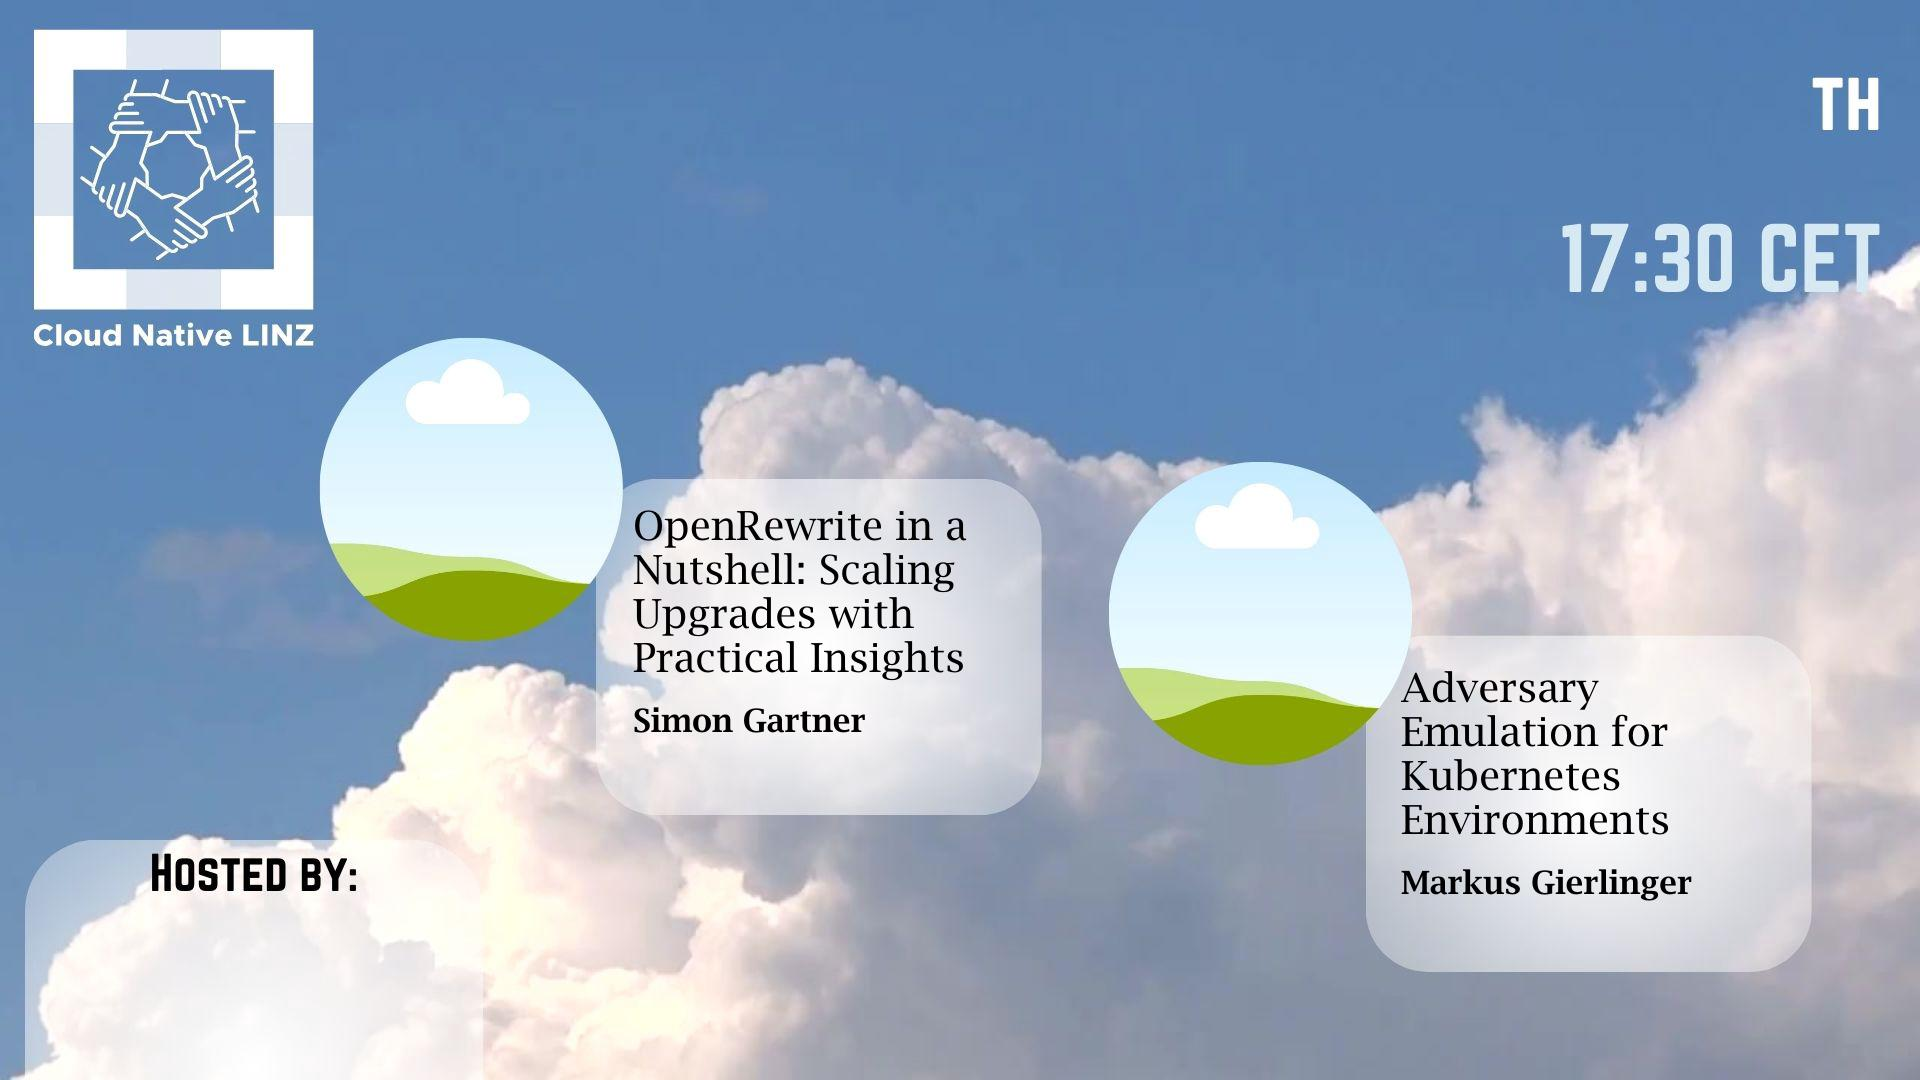
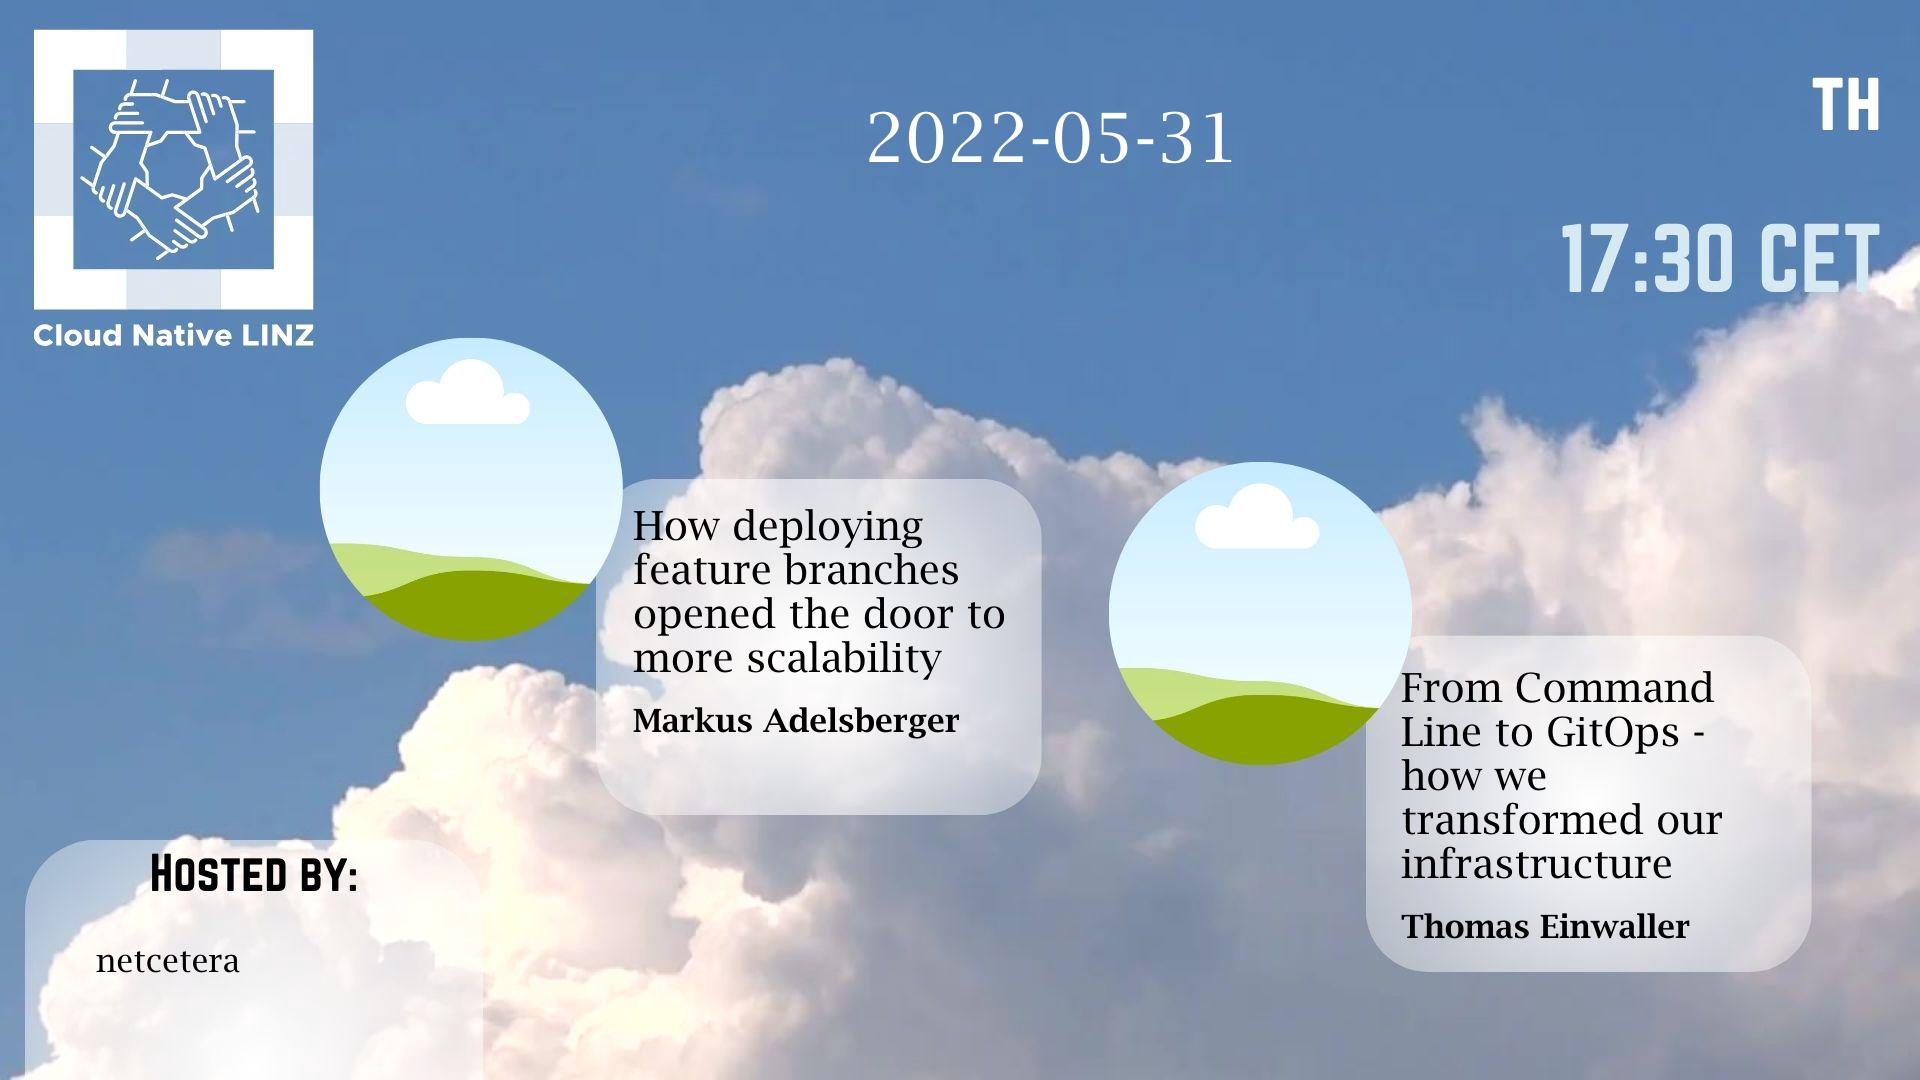
working version

diff --git a/cmd/main.go b/cmd/main.go
@@ -17,7 +17,25 @@ import (
 	"golang.org/x/image/font"
 	"golang.org/x/image/font/basicfont"
 	"golang.org/x/image/font/opentype"
+
+	"gopkg.in/yaml.v3"
 )
+
+// Structs for parsing events.yml
+type Talk struct {
+	Title   string `yaml:"title"`
+	Speaker string `yaml:"speaker"`
+}
+
+type Event struct {
+	ID    int    `yaml:"id"`
+	Date  string `yaml:"date"`
+	Title string `yaml:"title"`
+	Talks []Talk `yaml:"talks"`
+	Host  string `yaml:"host"`
+}
+
+type EventsYAML []Event
 
 func main() {
 	// Define command-line arguments
@@ -25,6 +43,7 @@ func main() {
 	overlayPaths := flag.String("overlays", "", "Comma-separated paths to overlay images")
 	outputPath := flag.String("output", "output.jpg", "Path to save the final image")
 	templatePath := flag.String("template", "", "Path to the JSON template file") // Template file
+	eventID := flag.String("id", "", "ID of the event in events.yml to use for speaker/talk text")
 
 	flag.Parse()
 
@@ -106,6 +125,28 @@ func main() {
 				BoxWidth int    `json:"boxWidth"`
 				Text     string `json:"text"`
 			} `json:"speaker2name"`
+			Sponsor struct {
+				Font     string  `json:"font"`
+				FontSize float64 `json:"fontSize"`
+				Color    string  `json:"color"`
+				Position struct {
+					X int `json:"x"`
+					Y int `json:"y"`
+				} `json:"position"`
+				BoxWidth int    `json:"boxWidth"`
+				Text     string `json:"text"`
+			} `json:"sponsor"`
+			Date struct {
+				Font     string  `json:"font"`
+				FontSize float64 `json:"fontSize"`
+				Color    string  `json:"color"`
+				Position struct {
+					X int `json:"x"`
+					Y int `json:"y"`
+				} `json:"position"`
+				BoxWidth int    `json:"boxWidth"`
+				Text     string `json:"text"`
+			} `json:"date"`
 		}
 		if err := json.Unmarshal(templateData, &template); err != nil {
 			log.Fatalf("Error parsing template JSON: %v", err)
@@ -154,7 +195,51 @@ func main() {
 	// Create text renderer
 	textRenderer := renderer.TextRenderer{}
 
+	// If --id is provided, parse events.yml and extract talk info
+	var speaker1Title, speaker1Name, speaker2Title, speaker2Name, sponsor, date string
+	useEventTalks := false
+	if *eventID != "" {
+		eventsData, err := os.ReadFile("_data/events.yml")
+		if err != nil {
+			log.Fatalf("Error reading events.yml: %v", err)
+		}
+		var events EventsYAML
+		err = yaml.Unmarshal(eventsData, &events)
+		if err != nil {
+			log.Fatalf("Error parsing events.yml: %v", err)
+		}
+		found := false
+		for _, event := range events {
+			if fmt.Sprintf("%d", event.ID) == *eventID {
+				if len(event.Talks) > 0 {
+					speaker1Title = event.Talks[0].Title
+					speaker1Name = event.Talks[0].Speaker
+				}
+				if len(event.Talks) > 1 {
+					speaker2Title = event.Talks[1].Title
+					speaker2Name = event.Talks[1].Speaker
+				}
+				if event.Host != "" {
+					sponsor = event.Host
+				}
+				if event.Date != "" {
+					date = event.Date
+				}
+				found = true
+				useEventTalks = true
+				break
+			}
+		}
+		if !found {
+			log.Fatalf("Event with ID %s not found in events.yml", *eventID)
+		}
+	}
+
+	// Remove unused variable warning for useEventTalks
+	_ = useEventTalks
+
 	// --- Render speaker text in correct box positions and avoid overlaying ---
+	// Use extracted talk info if available, otherwise fallback to template.json text
 	if *templatePath != "" {
 		templateData, err := os.ReadFile(*templatePath)
 		if err != nil {
@@ -205,23 +290,69 @@ func main() {
 				}
 				BoxWidth int
 			}
+			Sponsor struct {
+				Text     string
+				Font     string
+				FontSize float64
+				Color    string
+				Position struct {
+					X int
+					Y int
+				}
+				BoxWidth int
+			}
+			Date struct {
+				Text     string
+				Font     string
+				FontSize float64
+				Color    string
+				Position struct {
+					X int
+					Y int
+				}
+				BoxWidth int
+			}
 		}
 		if err := json.Unmarshal(templateData, &template); err != nil {
 			log.Fatalf("Error parsing template JSON: %v", err)
 		}
 
+		// Override text fields if event talks are available
+		if *eventID != "" {
+			if speaker1Title != "" {
+				template.Speaker1title.Text = speaker1Title
+			}
+			if speaker1Name != "" {
+				template.Speaker1name.Text = speaker1Name
+			}
+			if speaker2Title != "" {
+				template.Speaker2title.Text = speaker2Title
+			}
+			if speaker2Name != "" {
+				template.Speaker2name.Text = speaker2Name
+			}
+			if sponsor != "" {
+				template.Sponsor.Text = sponsor
+			}
+			if date != "" {
+				template.Date.Text = date
+			}
+		}
+
 		imgWidth := rgbaFinalImage.Bounds().Dx()
 		imgHeight := rgbaFinalImage.Bounds().Dy()
 
+		// TODO get the positions from the template.json file
+
 		// Speaker 1 box (left)
-		speaker1BoxX := int(0.33 * float64(imgWidth))    // ~30% from left
+		speaker1BoxX := int(0.33 * float64(imgWidth))    // ~33% from left
 		speaker1BoxY := int(0.50 * float64(imgHeight))   // ~50% from top
-		speakerBoxWidth := int(0.20 * float64(imgWidth)) // ~25% width
+		speakerBoxWidth := int(0.20 * float64(imgWidth)) // ~20% width
 		lineSpacing := 1.1
 
-		// Speaker 2 box (right)
-		speaker2BoxX := int(0.73 * float64(imgWidth))  // ~62% from left
-		speaker2BoxY := int(0.65 * float64(imgHeight)) // ~36% from top
+		// Speaker 2 box (right
+		speaker2BoxX := int(0.73 * float64(imgWidth))  // ~73% from left
+		speaker2BoxY := int(0.65 * float64(imgHeight)) // ~65% from top
 
 		// Render Speaker 1 (title + name)
 		font1 := loadFont(template.Speaker1title.Font)
@@ -268,6 +399,26 @@ func main() {
 				log.Printf("Error rendering speaker2 name: %v", err)
 			}
 		}
+
+		// Draw sponsor text at the bottom
+		sponsorBoxX := int(0.05 * float64(imgWidth))
+		sponsorBoxY := int(0.90 * float64(imgHeight))
+
+		// Draw sponsor text
+		err = textRenderer.RenderTextWithPositionAndColor(rgbaFinalImage, template.Sponsor.Text, template.Sponsor.Font, template.Sponsor.FontSize, template.Sponsor.Color, sponsorBoxX, sponsorBoxY)
+		if err != nil {
+			log.Printf("Error rendering sponsor text: %v", err)
+		}
+
+		// Draw date text at the top right
+		dateBoxX := int(0.45 * float64(imgWidth))
+		dateBoxY := int(0.15 * float64(imgHeight))
+		// Draw date text
+		err = textRenderer.RenderTextWithPositionAndColor(rgbaFinalImage, template.Date.Text, template.Date.Font, template.Date.FontSize, template.Date.Color, dateBoxX, dateBoxY)
+		if err != nil {
+			log.Printf("Error rendering date text: %v", err)
+		}
+
 	}
 
 	// Save final image
